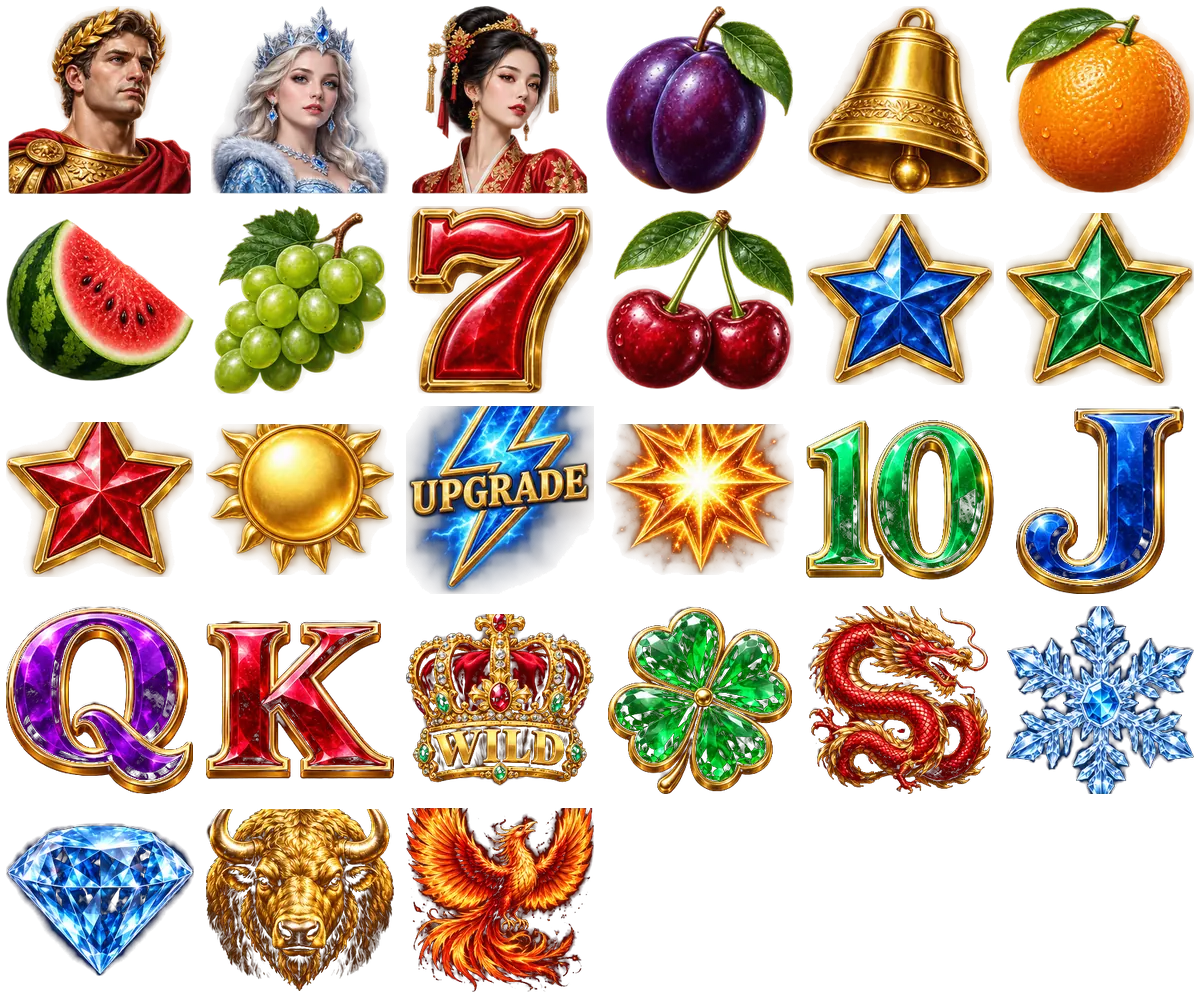
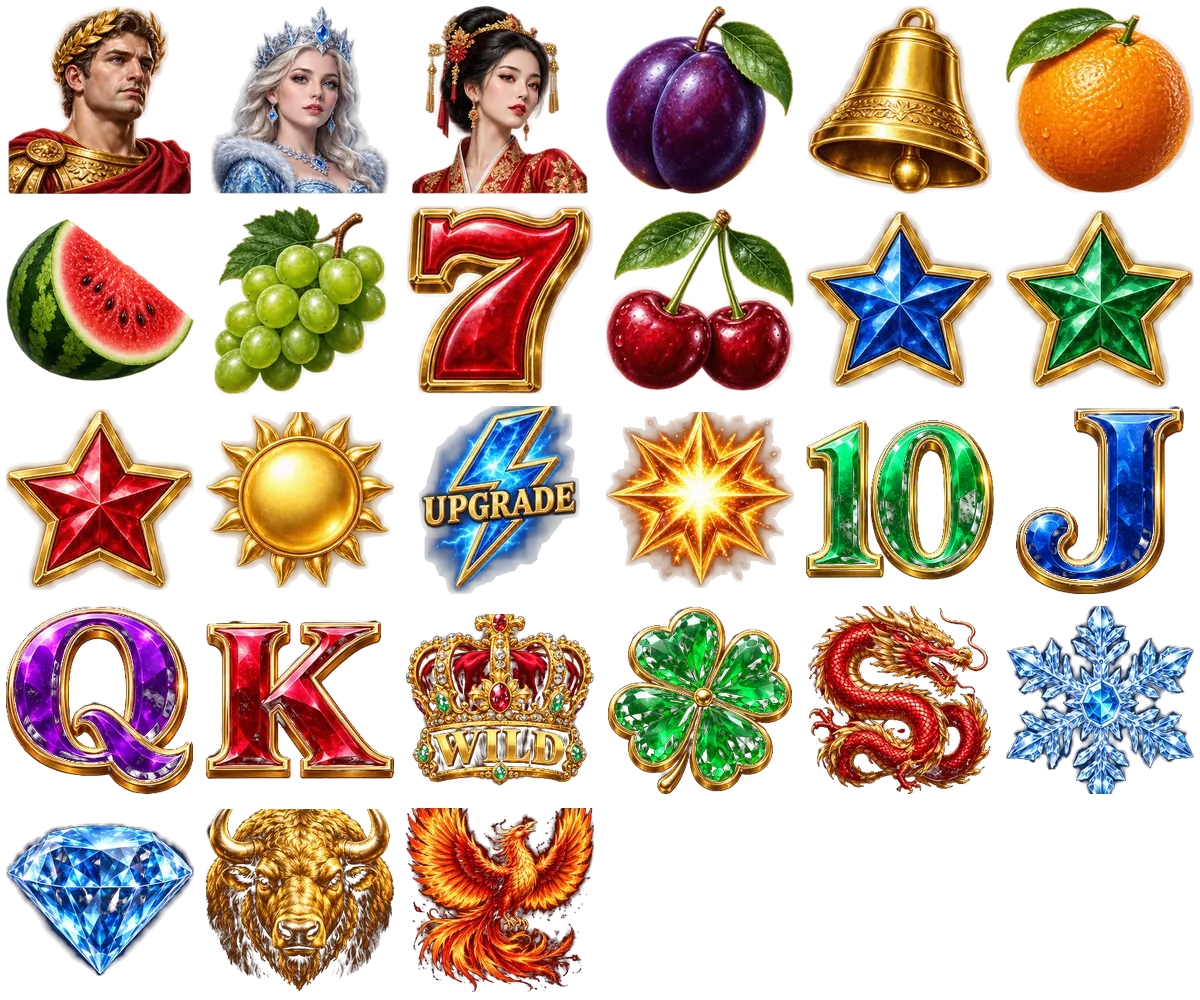
Símbolos completos: el atlas ya no corta las puntas de estrellas ni los rayos del sol
El recorte tomaba cada celda exacta de la imagen original, pero varias figuras sobresalen
de su cuadrícula. Ahora se recorta con margen y se conserva solo la figura conectada al centro.

Claude-Session: https://claude.ai/code/session_019ZYgCiapTrQ2XJgLW9uoYL

Changed region(s): [[0.0, 0.372, 0.6783, 0.589], [0.5242, 0.186, 1.0, 0.403]]

diff --git a/js/app.js b/js/app.js
@@ -1,10 +1,10 @@
-import { sfx } from './audio.js?v=27';
-import { loadAtlas, clearSpriteCache, Particles, goldText, ease, glow, clamp, FONT, rand } from './gfx.js?v=27';
-import { sleep } from './reels.js?v=27';
-import XLink from './games/xlink.js?v=27';
-import Avalanche from './games/avalanche.js?v=27';
-import FireWheel from './games/firewheel.js?v=27';
-import Legion from './games/legion.js?v=27';
+import { sfx } from './audio.js?v=28';
+import { loadAtlas, clearSpriteCache, Particles, goldText, ease, glow, clamp, FONT, rand } from './gfx.js?v=28';
+import { sleep } from './reels.js?v=28';
+import XLink from './games/xlink.js?v=28';
+import Avalanche from './games/avalanche.js?v=28';
+import FireWheel from './games/firewheel.js?v=28';
+import Legion from './games/legion.js?v=28';
 
 const GAMES = [XLink, Avalanche, FireWheel, Legion];
 const BETS = [10, 20, 30, 50, 100, 200, 500];

diff --git a/js/games/xlink.js b/js/games/xlink.js
@@ -3,8 +3,8 @@
 // hasta 8 filas y 100 líneas. 6+ bolas doradas activan GOLDEN SPINS: las bolas quedan fijas,
 // 3 giros que se reinician con cada bola nueva y filas que se desbloquean con rayos al
 // acumular 8 · 12 · 17 · 23 · 30 bolas. Tablero lleno (40) = GRAND.
-import { S, sym, ball, jackpotBall, specialIcon, spriteURL, bolt, electricRing, glow, goldText, roundRect, ease, rand, makeCanvas, FONT } from '../gfx.js?v=27';
-import { ReelSet, LINES_5x3, weighted } from '../reels.js?v=27';
+import { S, sym, ball, jackpotBall, specialIcon, spriteURL, bolt, electricRing, glow, goldText, roundRect, ease, rand, makeCanvas, FONT } from '../gfx.js?v=28';
+import { ReelSet, LINES_5x3, weighted } from '../reels.js?v=28';
 
 const COLS = 5, MAXR = 8, BASE_R = 3;
 const THRESH = [8, 12, 17, 23, 30];

diff --git a/js/games/avalanche.js b/js/games/avalanche.js
@@ -2,8 +2,8 @@
 // 6x5, pagos en cualquier posición (8+ iguales). Los símbolos ganadores estallan en hielo y
 // caen nuevos (cascadas). Multiplicador base x1→x2→x3→x5 por cascada. 4+ copos = 10 giros
 // gratis con multiplicador progresivo que NO se reinicia (+1 por cada cascada ganadora).
-import { S, sym, ball, jackpotBall, shortMoney, glow, goldText, roundRect, ease, rand, FONT, makeCanvas, electricRing } from '../gfx.js?v=27';
-import { weighted } from '../reels.js?v=27';
+import { S, sym, ball, jackpotBall, shortMoney, glow, goldText, roundRect, ease, rand, FONT, makeCanvas, electricRing } from '../gfx.js?v=28';
+import { weighted } from '../reels.js?v=28';
 
 const COLS = 6, ROWS = 5;
 export const PAY = {

diff --git a/js/games/firewheel.js b/js/games/firewheel.js
@@ -1,8 +1,8 @@
 // RUEDA DE FUEGO · clásico 3x3, 5 líneas.
 // El WILD de fuego solo cae en el rodillo central: se expande a todo el rodillo y duplica
 // las líneas donde participa. 3 soles = RUEDA DE FUEGO con multiplicadores y 4 jackpots.
-import { S, sym, glow, goldText, roundRect, ease, rand, FONT } from '../gfx.js?v=27';
-import { ReelSet, LINES_3x3, weighted, weightedIdx } from '../reels.js?v=27';
+import { S, sym, glow, goldText, roundRect, ease, rand, FONT } from '../gfx.js?v=28';
+import { ReelSet, LINES_3x3, weighted, weightedIdx } from '../reels.js?v=28';
 
 export const PAY = { seven: 60, bell: 24, melon: 18, grapes: 18, plum: 9, orange: 9, cherry: 6 };
 const W_REEL = [

diff --git a/js/games/legion.js b/js/games/legion.js
@@ -1,8 +1,8 @@
 // LEGIÓN DORADA · 5x4, 1024 formas de ganar.
 // Wild (corona) en rodillos 2-4. 3+ fénix = giros gratis (8/12/20). En giros gratis cada wild
 // queda PEGADO con un multiplicador x2/x3 que se multiplica en cada forma ganadora.
-import { S, sym, ball, jackpotBall, shortMoney, glow, goldText, roundRect, ease, rand, FONT } from '../gfx.js?v=27';
-import { ReelSet, weighted } from '../reels.js?v=27';
+import { S, sym, ball, jackpotBall, shortMoney, glow, goldText, roundRect, ease, rand, FONT } from '../gfx.js?v=28';
+import { ReelSet, weighted } from '../reels.js?v=28';
 
 const COLS = 5, ROWS = 4;
 export const PAY = {

diff --git a/index.html b/index.html
@@ -13,7 +13,7 @@
 <link rel="icon" type="image/png" href="icon-180.png">
 <link rel="manifest" href="manifest.webmanifest">
 <link rel="preload" href="assets/symbols.webp" as="image" type="image/webp">
-<link rel="stylesheet" href="css/app.css?v=27">
+<link rel="stylesheet" href="css/app.css?v=28">
 <title>Aurum Link</title>
 </head>
 <body data-game="xlink">
@@ -70,6 +70,6 @@
 </div>
 
 <div id="loader"><div class="brand">AURUM <span>LINK</span></div><div class="bar"><i></i></div></div>
-<script type="module" src="js/app.js?v=27"></script>
+<script type="module" src="js/app.js?v=28"></script>
 </body>
 </html>

diff --git a/sw.js b/sw.js
@@ -1,6 +1,6 @@
 // Caché offline: la app funciona sin conexión una vez abierta.
-const CACHE = 'aurum-v27';
-const V = '?v=27';
+const CACHE = 'aurum-v28';
+const V = '?v=28';
 const FILES = ['./', './index.html', './css/app.css' + V, './js/app.js' + V, './js/audio.js' + V, './js/gfx.js' + V, './js/reels.js' + V,
   './js/games/xlink.js' + V, './js/games/avalanche.js' + V, './js/games/firewheel.js' + V, './js/games/legion.js' + V,
   './assets/symbols.webp', './icon-180.png', './icon-512.png', './manifest.webmanifest'];

diff --git a/js/reels.js b/js/reels.js
@@ -1,5 +1,5 @@
 // Motor de rodillos genérico con giro continuo, frenado escalonado, rebote y anticipación.
-import { ease } from './gfx.js?v=27';
+import { ease } from './gfx.js?v=28';
 
 export class ReelSet {
   constructor({ cols, rows, pick, drawSym }) {

diff --git a/tools/build_atlas.py b/tools/build_atlas.py
@@ -2,9 +2,32 @@ from PIL import Image, ImageChops
 T=200
 ref=Image.open('assets/src/reference-symbols.png').convert('RGBA')
 sym=Image.open('assets/src/symbols.png').convert('RGB')
-def tile(im,i):
-    s=im.size[0]/4; c,r=i%4,i//4
-    return im.crop((int(c*s),int(r*s),int((c+1)*s),int((r+1)*s)))
+def tile(im,i,m=0):
+    # m: margen extra (fracción de celda) para no cortar puntas que sobresalen de la cuadrícula
+    s=im.size[0]/4; c,r=i%4,i//4; W,H=im.size
+    return im.crop((max(0,int((c-m)*s)),max(0,int((r-m)*s)),min(W,int((c+1+m)*s)),min(H,int((r+1+m)*s))))
+def component(t,thr=70):
+    # Conserva solo la figura conectada al centro (descarta trozos de símbolos vecinos)
+    from collections import deque
+    a=t.getchannel('A'); w,h=a.size; px=a.load()
+    seen=bytearray(w*h); q=deque()
+    cx,cy=w//2,h//2
+    best=None
+    for d in range(0,min(w,h)//4):
+        for (x,y) in ((cx+d,cy),(cx-d,cy),(cx,cy+d),(cx,cy-d)):
+            if px[x,y]>thr: best=(x,y); break
+        if best: break
+    if not best: return t
+    q.append(best); seen[best[1]*w+best[0]]=1
+    while q:
+        x,y=q.popleft()
+        for nx,ny in ((x+1,y),(x-1,y),(x,y+1),(x,y-1)):
+            if 0<=nx<w and 0<=ny<h and not seen[ny*w+nx] and px[nx,ny]>thr:
+                seen[ny*w+nx]=1; q.append((nx,ny))
+    m=Image.frombytes('L',(w,h),bytes(255 if v else 0 for v in seen))
+    from PIL import ImageFilter
+    m=m.filter(ImageFilter.MaxFilter(9))  # conserva el borde suave
+    t.putalpha(ImageChops.multiply(a,m)); return t
 def clean(t):
     a=t.getchannel('A').point(lambda v:0 if v<10 else v)
     t.putalpha(a); return t
@@ -34,14 +57,15 @@ def isolate(t):
     cols=[c if c>1 else 0 for c in cols]
     x0,x1=runs(cols)
     return t.crop((x0,y0,x1,y1))
-def fit(t,pad=6):
-    t=isolate(t); bb=t.getchannel('A').getbbox(); t=t.crop(bb)
+def fit(t,pad=6,bbox_only=False):
+    if not bbox_only: t=isolate(t)
+    bb=t.getchannel('A').point(lambda v:v if v>40 else 0).getbbox(); t=t.crop(bb)
     w,h=t.size; k=(T-2*pad)/max(w,h)
     t=t.resize((max(1,round(w*k)),max(1,round(h*k))),Image.LANCZOS)
     o=Image.new('RGBA',(T,T),(0,0,0,0)); o.alpha_composite(t,((T-t.size[0])//2,(T-t.size[1])//2)); return o
 tiles=[]
 # ref: 0 emperor 1 queen 2 geisha 3 plum 4 bell 5 orange 6 melon 7 grapes 8 seven 9 cherry 10 bstar 11 gstar 12 rstar 13 sun 14 upgrade 15 burst
-for i in range(16): tiles.append(fit(clean(tile(ref,i))))
+for i in range(16): tiles.append(fit(component(clean(tile(ref,i,0.12))),bbox_only=True))
 # sym: 0 ten 1 J 2 Q 3 K 5 crown 9 clover 10 dragon 11 snowflake 13 diamond 14 bull 15 phoenix
 for i in [0,1,2,3,5,9,10,11,13,14,15]: tiles.append(fit(key(tile(sym,i),0.84 if i==11 else 0.93)))
 cols=6; rows=(len(tiles)+cols-1)//cols
